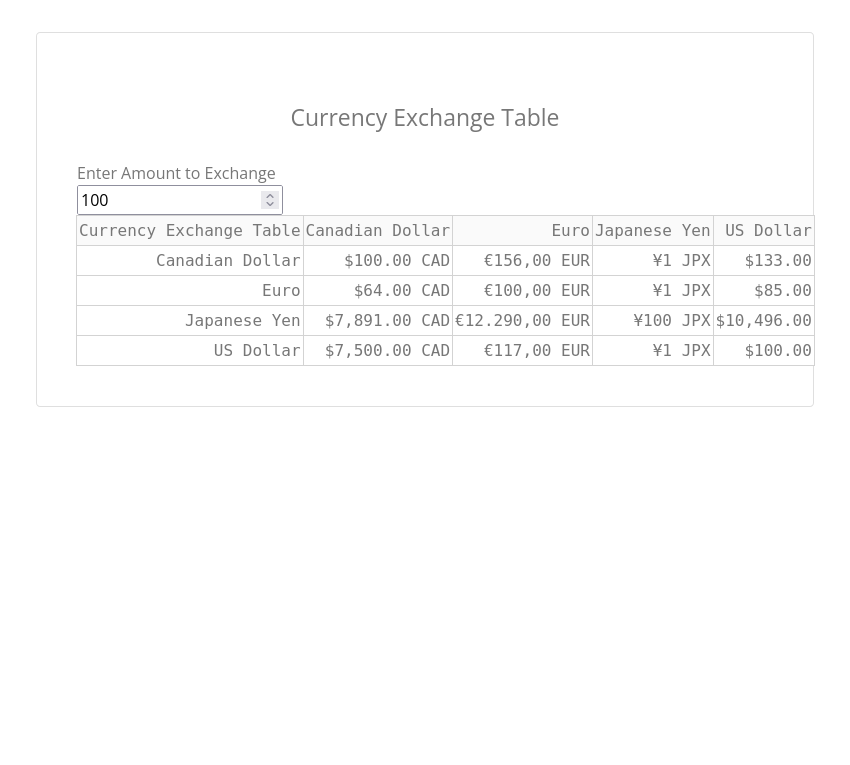
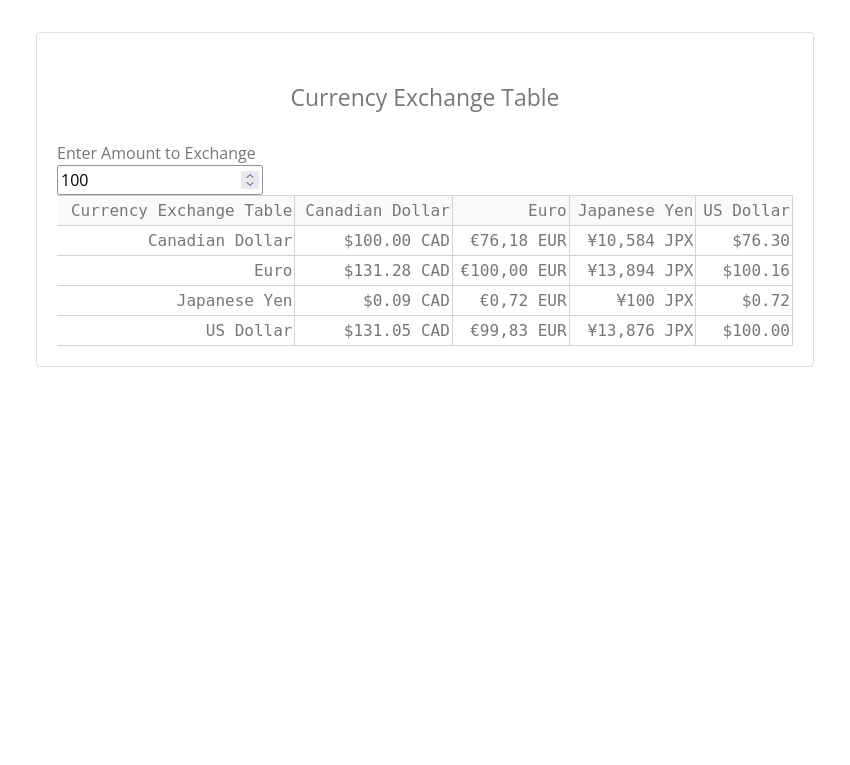
updated exchange rates

Changed region(s): [[0.0612, 0.1804, 0.9788, 0.481], [0.3365, 0.1203, 0.6729, 0.1804]]

diff --git a/examples/currency-exchange.py b/examples/currency-exchange.py
@@ -9,10 +9,10 @@ app = Dash(__name__)
 df = pd.DataFrame(
     {
         "Exchange": ["Canadian Dollar", "Euro", "Japanese Yen", "US Dollar"],
-        "CAD": [1, 0.64, 78.91, 75],
-        "EUR": [1.56, 1, 122.9, 1.17],
-        "JPY": [0.013, 0.0081, 1, 0.0095],
-        "USD": [1.33, 0.85, 104.96, 1],
+        "CAD": [1, 1.3128, .000945, 1.3105],
+        "EUR": [.7618, 1, .0071980, .9983],
+        "JPY": [105.84, 138.94, 1, 138.76],
+        "USD": [.7630, 1.0016, .00720950, 1],
     }
 )
 df = df.set_index("Exchange")
